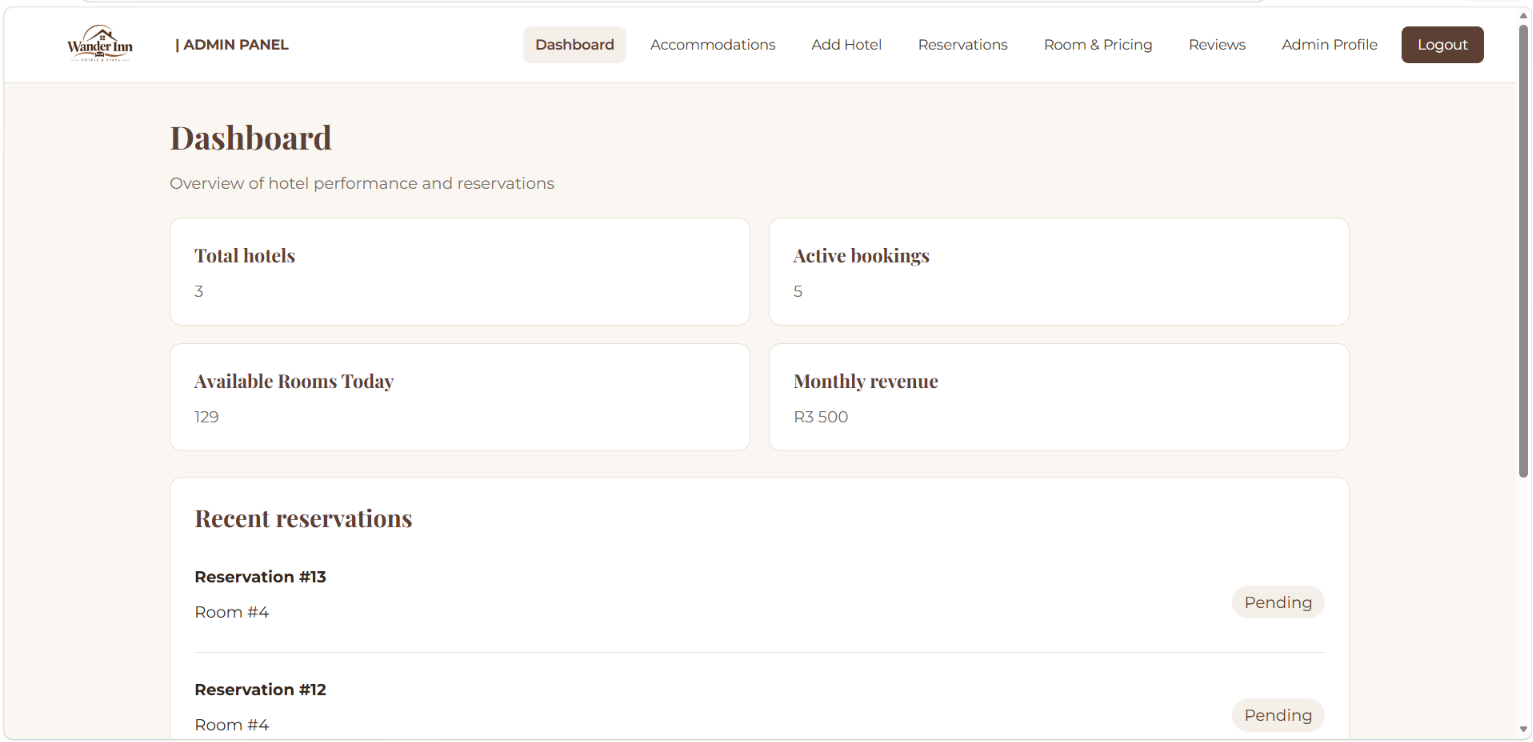
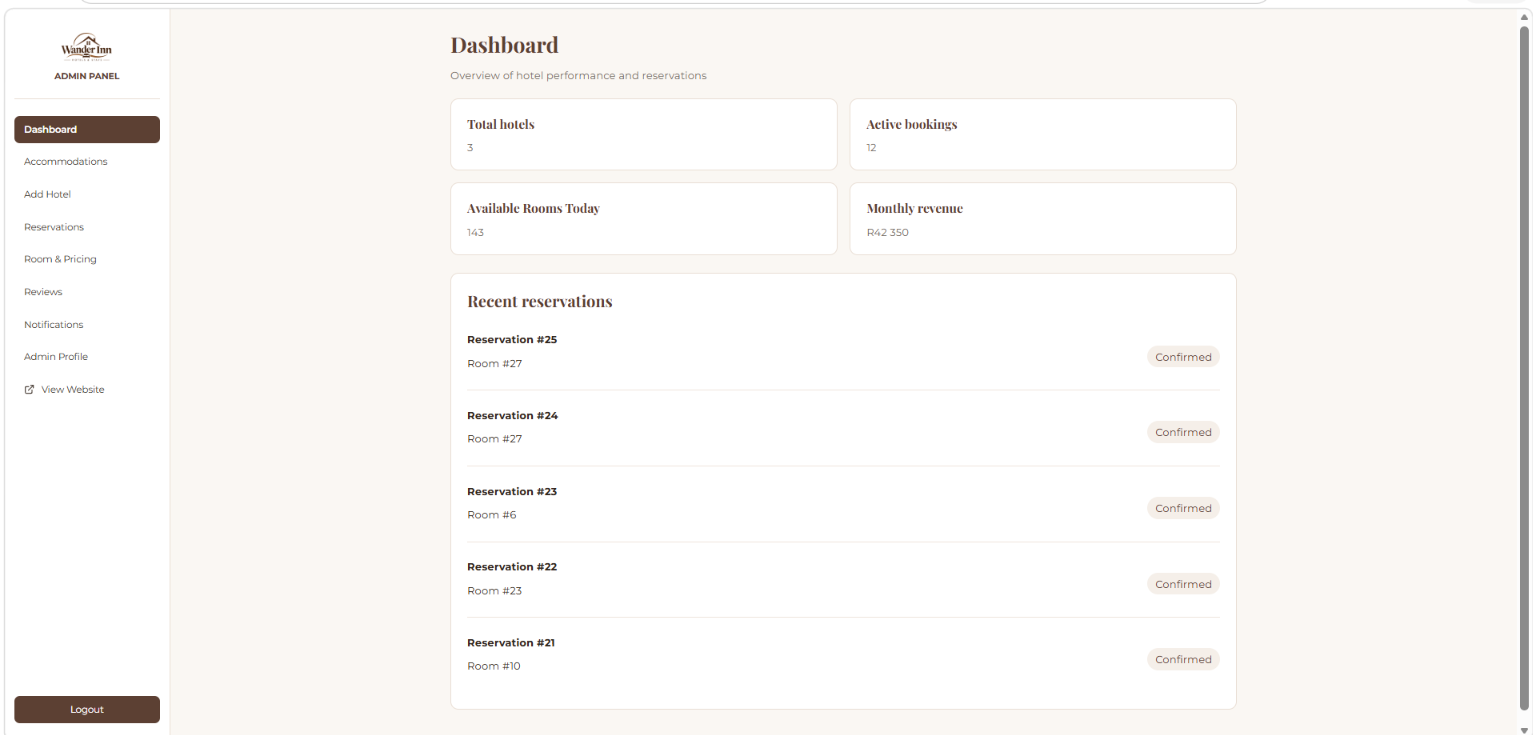
fixed the image path on readme file

diff --git a/README.md b/README.md
@@ -209,8 +209,7 @@ The frontend is deployed using Netlify and connects to a backend hosted on Rende
 
 
 
-The project includes `public/_redirects` to support React Router pages when refreshing or opening a direct URL on Netlify. The backend must allow the deployed Netlify origin in its CORS configuration.
-
+The project includes `public/_redirects` to support React Router pages when refreshing or opening a direct URL on Netlify. 
 
 ## App Preview
 
@@ -228,8 +227,6 @@ Preview showing hotel information and images.
 ![Hotel details](./Hotel-App-Frontend/hotel_details_2.png)
 
 ### Room Details
-
-![alt text](image.png)
 
  showing room details and images.
 
